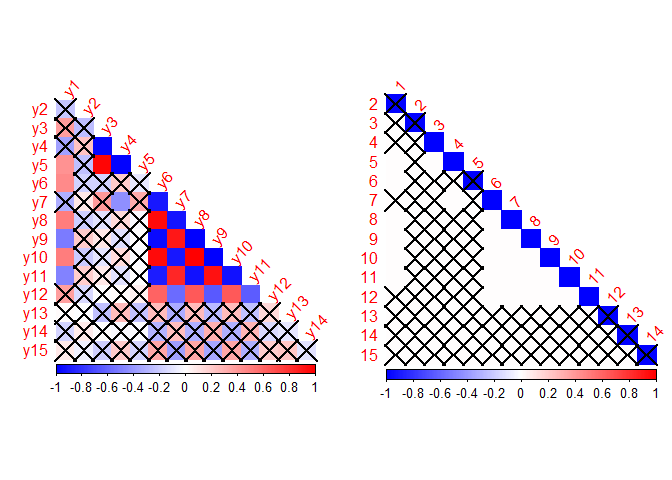
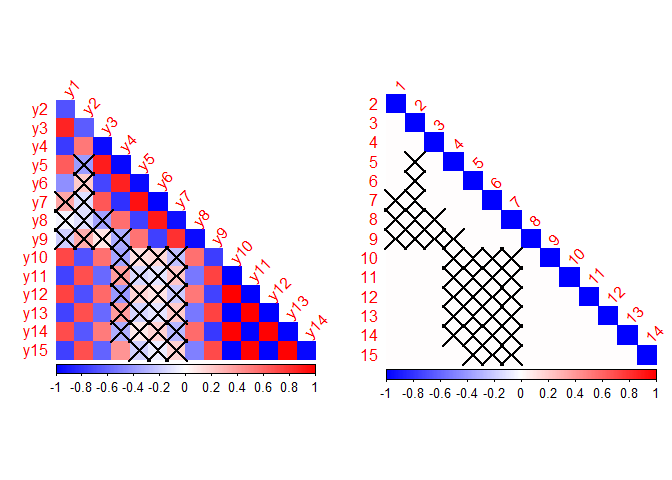
Getting interaction matrices from the models

diff --git a/testingHMSCv2/reports/20190321-Interaction_matrices.md b/testingHMSCv2/reports/20190321-Interaction_matrices.md
@@ -3,8 +3,138 @@ Species by Species covariance (or correlation) matrix
 Javiera Rudolph
 March 21, 2019
 
+``` r
+source("functions/rmd_figure_prep_fx.R")
+```
+
+We would like to get the species to species interaction matrices for each of the scenarios being tested. When setting up the metacommunity simulations, an interaction matrix, **A**, was used. We would like to compare the interaction matrix resulting from the model to the one used in the simulation. From the original code, this matrix **A** is defined as:
+
+``` r
+# Interaction matrix
+R <- 15
+A = matrix(0,nr=R,nc=R)
+d = as.matrix(dist(c(1:R),upper=TRUE,diag=T))
+A[d<=1] = -1
+diag(A) = 0
+
+A
+```
+
+    ##       [,1] [,2] [,3] [,4] [,5] [,6] [,7] [,8] [,9] [,10] [,11] [,12] [,13]
+    ##  [1,]    0   -1    0    0    0    0    0    0    0     0     0     0     0
+    ##  [2,]   -1    0   -1    0    0    0    0    0    0     0     0     0     0
+    ##  [3,]    0   -1    0   -1    0    0    0    0    0     0     0     0     0
+    ##  [4,]    0    0   -1    0   -1    0    0    0    0     0     0     0     0
+    ##  [5,]    0    0    0   -1    0   -1    0    0    0     0     0     0     0
+    ##  [6,]    0    0    0    0   -1    0   -1    0    0     0     0     0     0
+    ##  [7,]    0    0    0    0    0   -1    0   -1    0     0     0     0     0
+    ##  [8,]    0    0    0    0    0    0   -1    0   -1     0     0     0     0
+    ##  [9,]    0    0    0    0    0    0    0   -1    0    -1     0     0     0
+    ## [10,]    0    0    0    0    0    0    0    0   -1     0    -1     0     0
+    ## [11,]    0    0    0    0    0    0    0    0    0    -1     0    -1     0
+    ## [12,]    0    0    0    0    0    0    0    0    0     0    -1     0    -1
+    ## [13,]    0    0    0    0    0    0    0    0    0     0     0    -1     0
+    ## [14,]    0    0    0    0    0    0    0    0    0     0     0     0    -1
+    ## [15,]    0    0    0    0    0    0    0    0    0     0     0     0     0
+    ##       [,14] [,15]
+    ##  [1,]     0     0
+    ##  [2,]     0     0
+    ##  [3,]     0     0
+    ##  [4,]     0     0
+    ##  [5,]     0     0
+    ##  [6,]     0     0
+    ##  [7,]     0     0
+    ##  [8,]     0     0
+    ##  [9,]     0     0
+    ## [10,]     0     0
+    ## [11,]     0     0
+    ## [12,]     0     0
+    ## [13,]    -1     0
+    ## [14,]     0    -1
+    ## [15,]    -1     0
+
+Using the example from scenario in Figure 2c, fow which we used the following simulation parameters:
+
+``` r
+folderpath <- "outputs/20190318-fig2c_quad/"
+params <- get_params_table(folderpath, "scenario4")
+params %>% 
+  knitr::kable()
+```
+
+| species |   nicheOpt|  nicheBreadth|  colProb|  dispersal|  intercol|  interext|
+|:--------|----------:|-------------:|--------:|----------:|---------:|---------:|
+| 1       |  0.1000000|           0.8|      0.4|      0.005|       1.5|       1.5|
+| 2       |  0.1571429|           0.8|      0.4|      0.005|       1.5|       1.5|
+| 3       |  0.2142857|           0.8|      0.4|      0.005|       1.5|       1.5|
+| 4       |  0.2714286|           0.8|      0.4|      0.005|       1.5|       1.5|
+| 5       |  0.3285714|           0.8|      0.4|      0.005|       1.5|       1.5|
+| 6       |  0.3857143|           0.8|      0.4|      0.005|       1.5|       1.5|
+| 7       |  0.4428571|           0.8|      0.4|      0.005|       1.5|       1.5|
+| 8       |  0.5000000|           0.8|      0.4|      0.005|       1.5|       1.5|
+| 9       |  0.5571429|           0.8|      0.4|      0.005|       1.5|       1.5|
+| 10      |  0.6142857|           0.8|      0.4|      0.005|       1.5|       1.5|
+| 11      |  0.6714286|           0.8|      0.4|      0.005|       1.5|       1.5|
+| 12      |  0.7285714|           0.8|      0.4|      0.005|       1.5|       1.5|
+| 13      |  0.7857143|           0.8|      0.4|      0.005|       1.5|       1.5|
+| 14      |  0.8428571|           0.8|      0.4|      0.005|       1.5|       1.5|
+| 15      |  0.9000000|           0.8|      0.4|      0.005|       1.5|       1.5|
+
+And we obtained the following results:
+
+``` r
+arrange_plots(folderpath, "scenario4", colorSpp = "nicheOpt", colorSites = "richness", leftlabel = "Fig2c")
+```
+
 ![](20190321-Interaction_matrices_files/figure-markdown_github/unnamed-chunk-2-1.png)
 
-![](20190321-Interaction_matrices_files/figure-markdown_github/unnamed-chunk-6-1.png)
+When we look at the structure of the HMSC object created for this scenario, it has 5 iterations. In the resulting figures, each iteration has a different shape. Does this mean that we should get a species interaction matrix for each one of these iterations?
+
+``` r
+modelfile <- readRDS(paste0(folderpath, "scenario4-model.RDS"))
+```
+
+``` r
+par(mfrow=c(3,2))
+
+for(i in 1:5){
+assoMat <- corRandomEff(modelfile[[i]])
+chordDiagram(assoMat[, , 1, 1], symmetric = TRUE)
+}
+```
+
+![](20190321-Interaction_matrices_files/figure-markdown_github/unnamed-chunk-4-1.png)
+
+When we want to look at the matrix, I am confused about the siteMean vs plotMean. Keep in mind that this site mean is using only one of the iterations.
+
+``` r
+siteMean <- apply(assoMat[ , , , 1], 1:2, mean)
+#plotMean <- apply(assoMat[ , , , 2], 1:2, mean)
+```
+
+I took this example from the vignette, and I am not sure where the 0.4 value comes from.
+
+``` r
+siteDrawCol <- matrix(NA, nrow = nrow(siteMean), ncol = ncol(siteMean))
+siteDrawCol[which(siteMean > 0.4, arr.ind=TRUE)]<-"red"
+siteDrawCol[which(siteMean < -0.4, arr.ind=TRUE)]<-"blue"
+# Build matrix of "significance" for corrplot
+siteDraw <- siteDrawCol
+siteDraw[which(!is.na(siteDraw), arr.ind = TRUE)] <- 0
+siteDraw[which(is.na(siteDraw), arr.ind = TRUE)] <- 1
+siteDraw <- matrix(as.numeric(siteDraw), nrow = nrow(siteMean), ncol = ncol(siteMean))
+```
+
+In this case, the figure to the right is what would be our simulation matrix of interactions, **A**.
+
+``` r
+par(mfrow=c(1,2))
+Colour <- colorRampPalette(c("blue", "white", "red"))(200)
+corrplot(siteMean, method = "color", col = Colour, type = "lower",
+diag = FALSE, p.mat = siteDraw, tl.srt = 45)
+
+corrplot(A, method = "color", col = Colour, type = "lower",
+diag = FALSE, p.mat = siteDraw, tl.srt = 45)
+```
 
 ![](20190321-Interaction_matrices_files/figure-markdown_github/unnamed-chunk-7-1.png)
